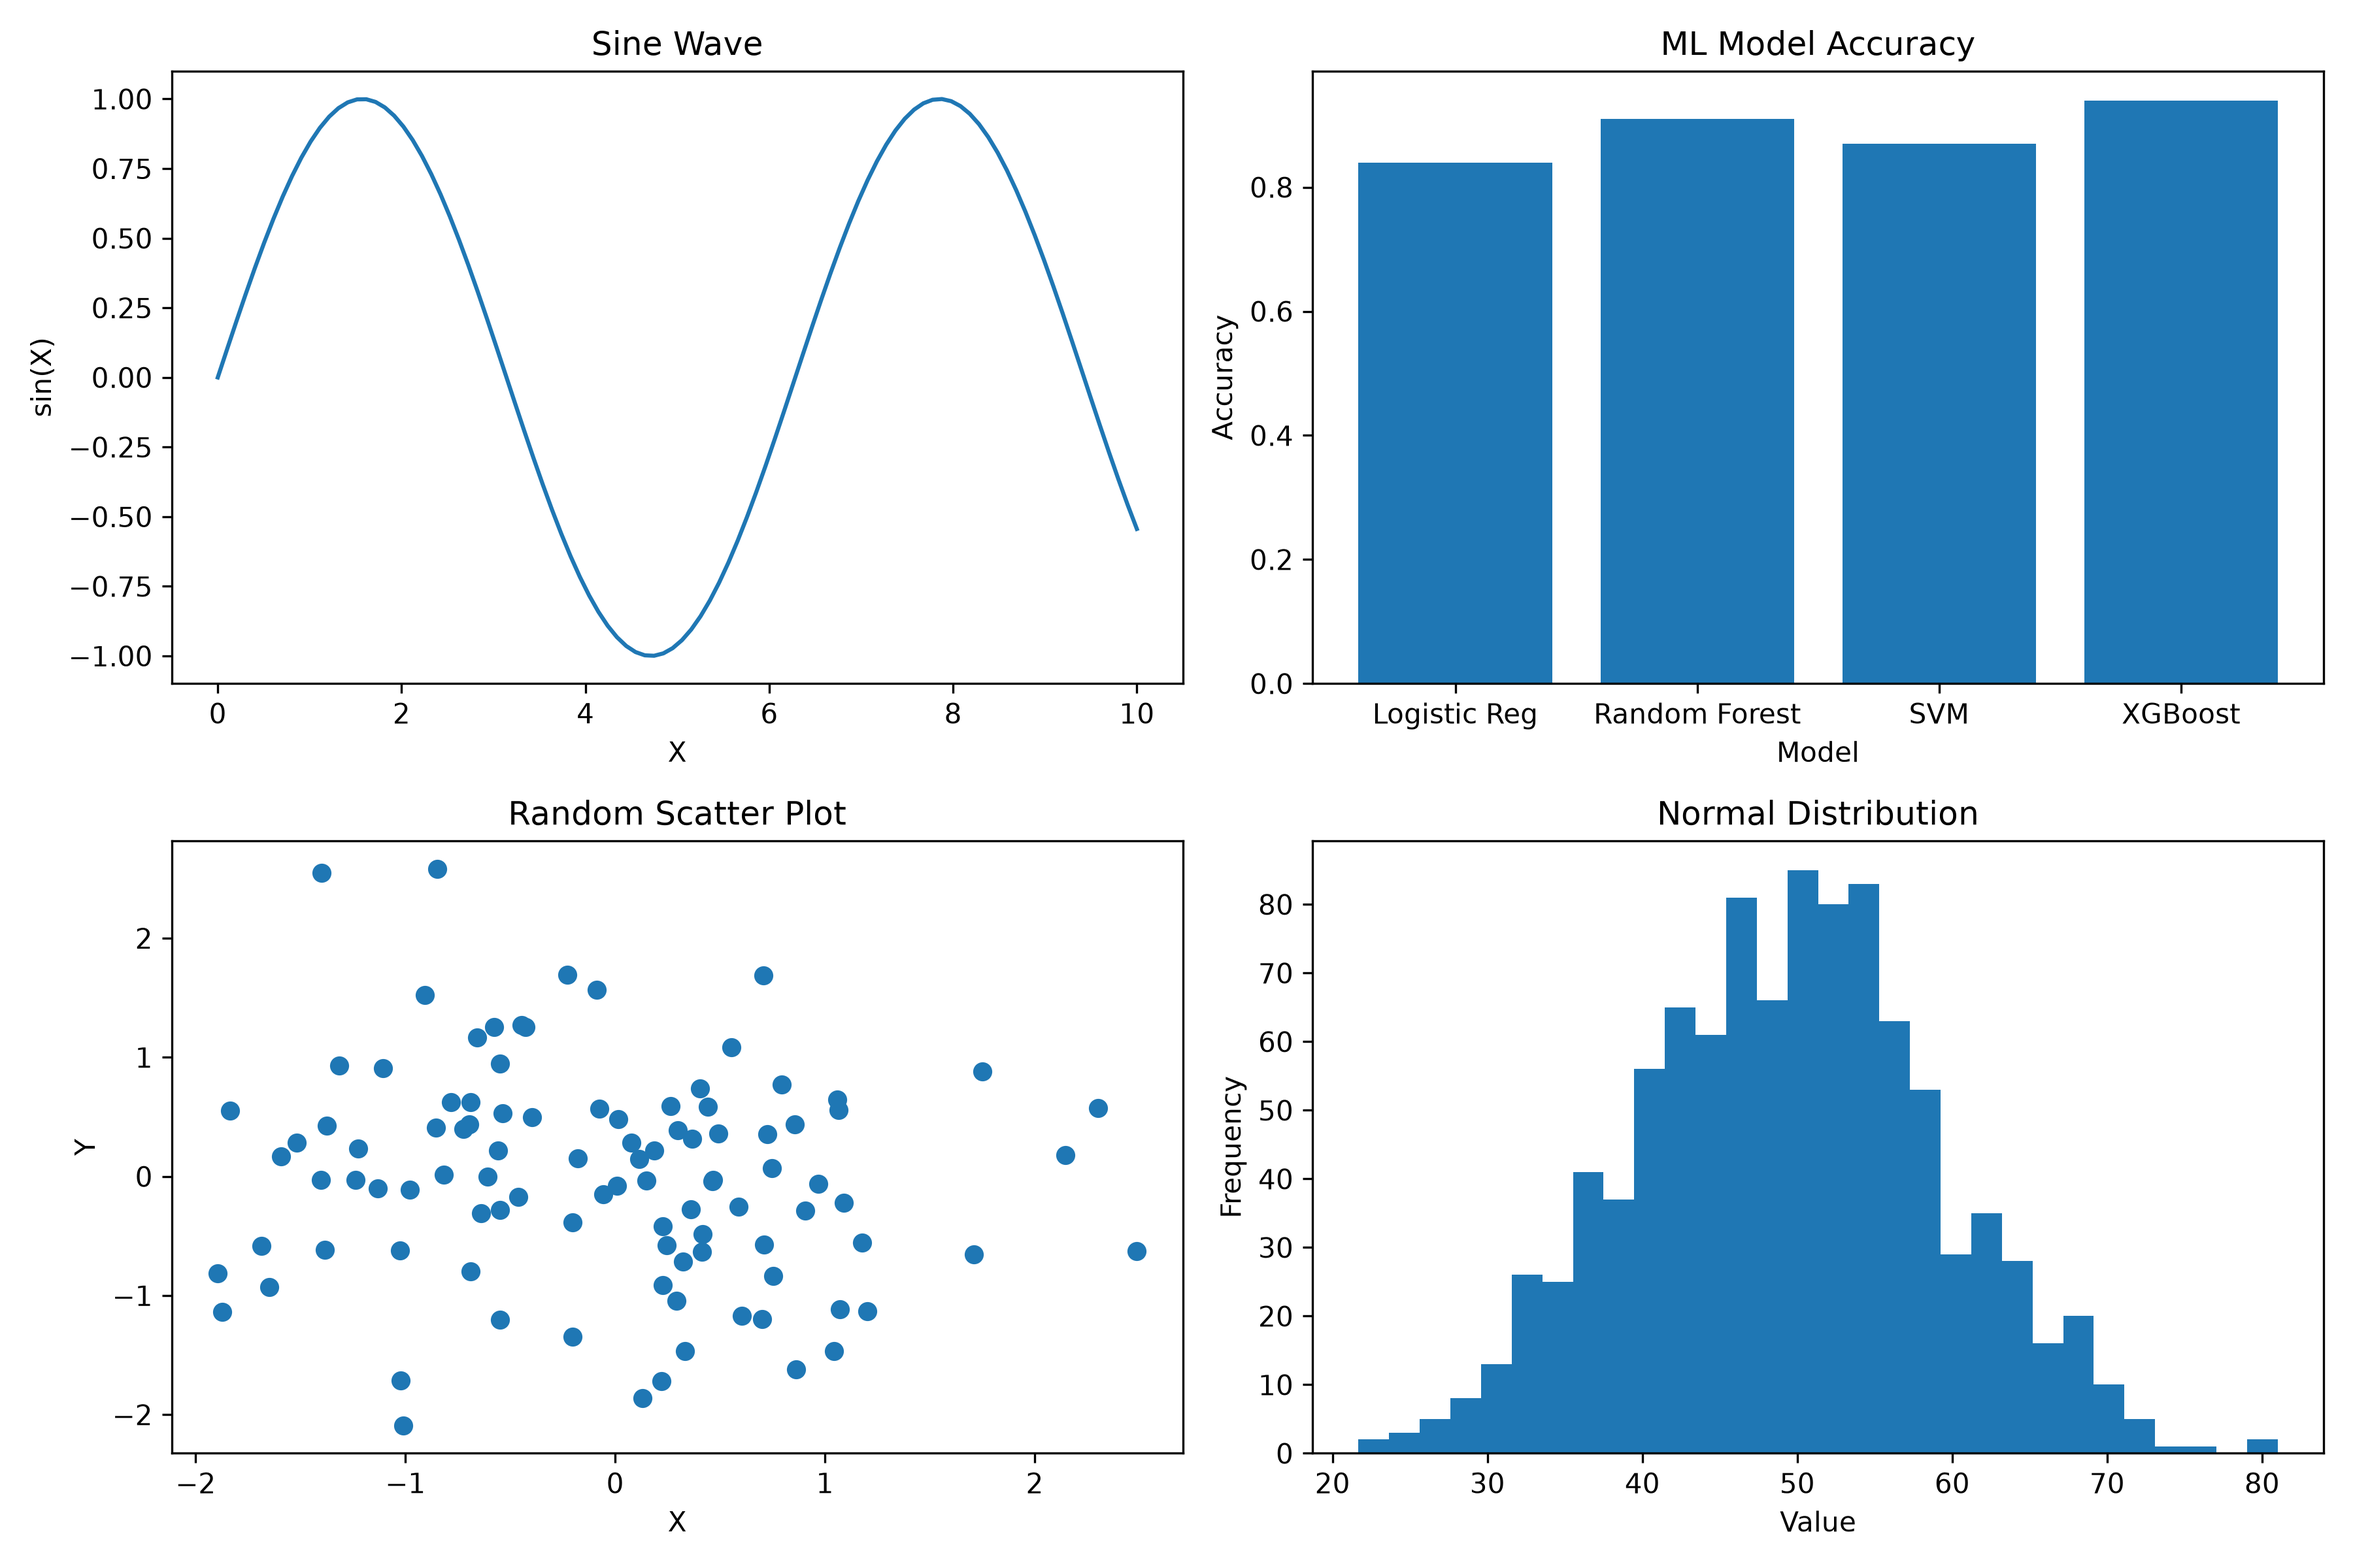
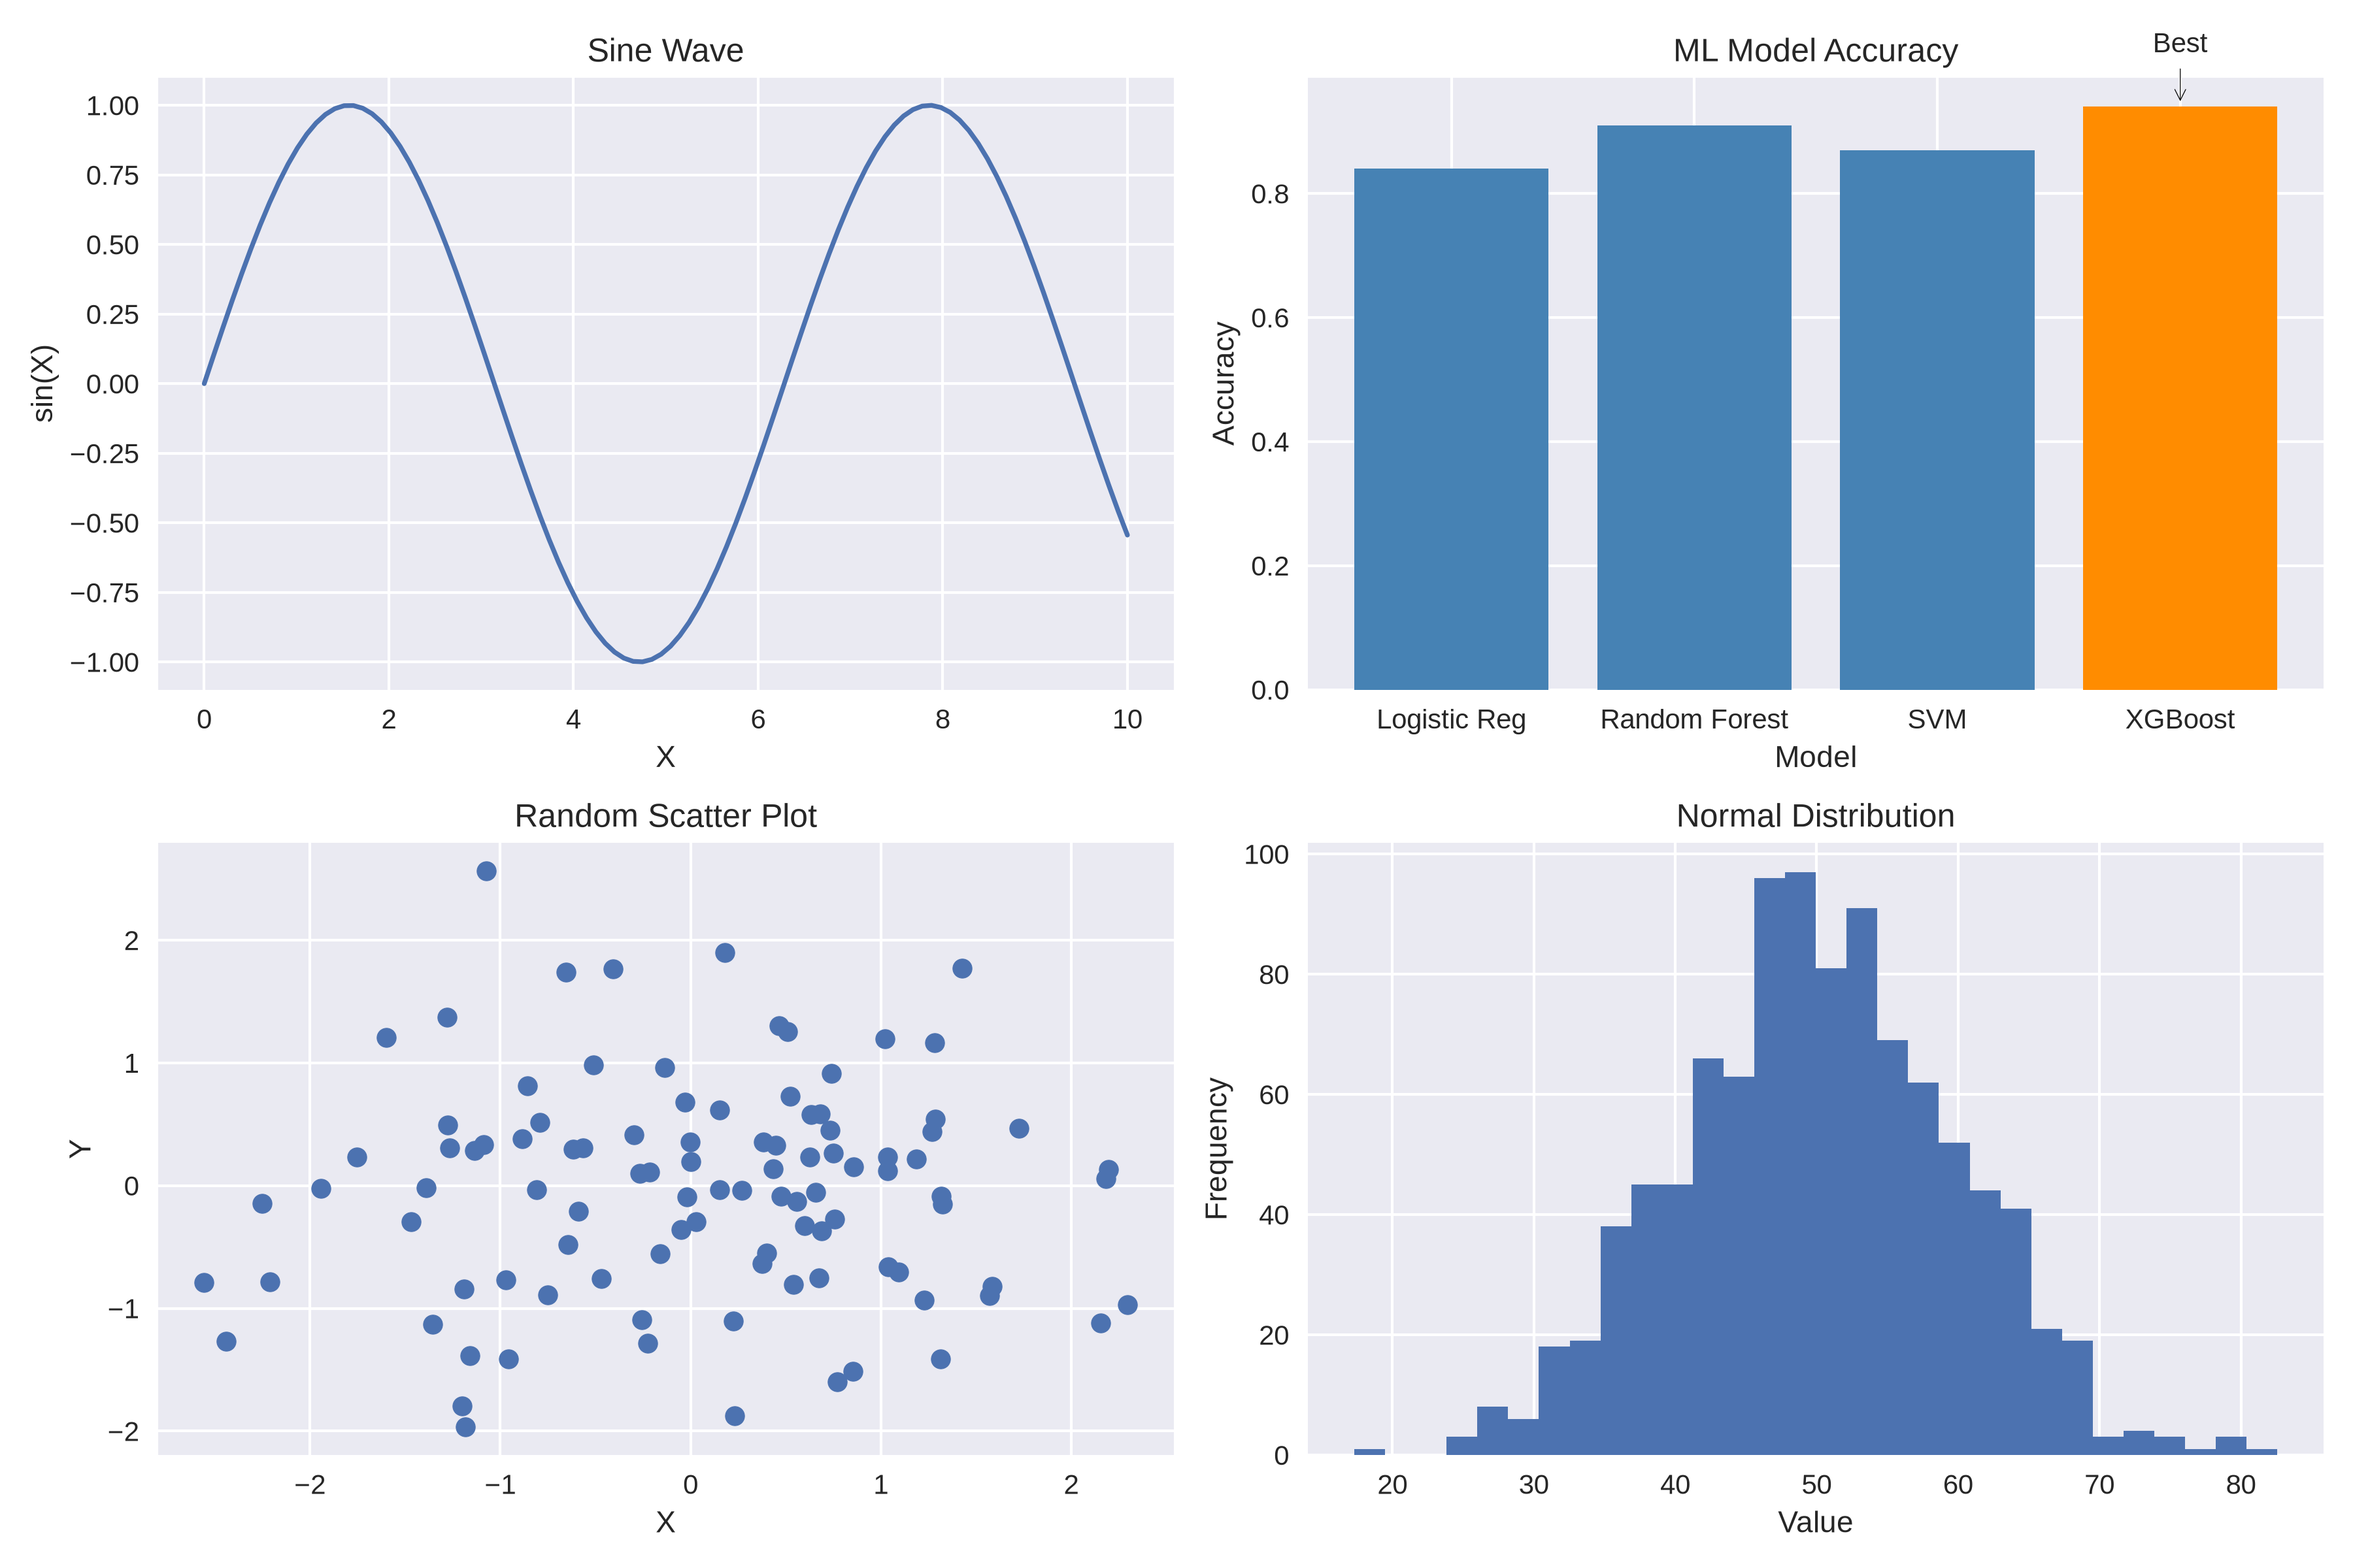
feat(visualization): enhance plots with professional styling, annotations, and improved spacing

diff --git a/phase-5-visualization-math/week1_matplotlib/01_matplotlib_basics.py b/phase-5-visualization-math/week1_matplotlib/01_matplotlib_basics.py
@@ -2,6 +2,10 @@ import numpy as np
 import matplotlib.pyplot as plt
 
 
+# Apply professional built-in Matplotlib style
+plt.style.use("seaborn-v0_8")
+
+
 def create_subplots_overview():
     """Create and save a 2x2 grid of different plot types."""
 
@@ -25,10 +29,37 @@ def create_subplots_overview():
     models = ["Logistic Reg", "Random Forest", "SVM", "XGBoost"]
     accuracy = [0.84, 0.91, 0.87, 0.94]
 
-    ax[0, 1].bar(models, accuracy)
+    # Highlight XGBoost
+    colors = [
+        "steelblue",
+        "steelblue",
+        "steelblue",
+        "darkorange"
+    ]
+
+    ax[0, 1].bar(
+        models,
+        accuracy,
+        color=colors
+    )
+
     ax[0, 1].set_title("ML Model Accuracy")
     ax[0, 1].set_xlabel("Model")
     ax[0, 1].set_ylabel("Accuracy")
+
+    # Annotate the best model
+    best_index = np.argmax(accuracy)
+    best_model = models[best_index]
+    best_accuracy = accuracy[best_index]
+
+    ax[0, 1].annotate(
+        "Best",
+        xy=(best_model, best_accuracy),
+        xytext=(0, 20),
+        textcoords="offset points",
+        ha="center",
+        arrowprops=dict(arrowstyle="->")
+    )
 
     # ---------------------------------------------------------
     # [1, 0] Scatter Plot — Random Relationship
@@ -55,7 +86,7 @@ def create_subplots_overview():
     ax[1, 1].set_xlabel("Value")
     ax[1, 1].set_ylabel("Frequency")
 
-    # Prevent overlapping labels/titles
+    # Improve subplot spacing
     plt.tight_layout()
 
     # Save the complete figure
@@ -76,22 +107,43 @@ def plot_training_curve(train_loss, val_loss):
     # Create single axes
     fig, ax = plt.subplots(figsize=(8, 5))
 
-    # Plot both loss curves
-    ax.plot(epochs, train_loss, label="Training Loss")
-    ax.plot(epochs, val_loss, label="Validation Loss")
+    # Training loss — solid line
+    ax.plot(
+        epochs,
+        train_loss,
+        label="Training Loss",
+        linestyle="-"
+    )
+
+    # Validation loss — dashed line
+    ax.plot(
+        epochs,
+        val_loss,
+        label="Validation Loss",
+        linestyle="--"
+    )
 
     ax.set_title("Training vs Validation Loss")
     ax.set_xlabel("Epoch")
     ax.set_ylabel("Loss")
+
+    # Annotate where overfitting starts
+    ax.annotate(
+        "Overfitting starts",
+        xy=(9, val_loss[8]),
+        xytext=(6.5, 0.65),
+        arrowprops=dict(arrowstyle="->"),
+    )
 
     # Show legend
     ax.legend()
 
     plt.tight_layout()
 
-    # Save plot
+    # Save training curve
     plt.savefig("training_curve.png", dpi=300)
 
+    # Close figure
     plt.close(fig)
 
 
@@ -101,12 +153,13 @@ def main():
     # Create 2x2 subplot figure
     create_subplots_overview()
 
-    # Fake decreasing loss values for 10 epochs
+    # Fake decreasing training loss for 10 epochs
     train_loss = [
         0.95, 0.80, 0.68, 0.57, 0.48,
         0.41, 0.35, 0.30, 0.26, 0.23
     ]
 
+    # Validation loss starts increasing around epoch 9
     val_loss = [
         1.00, 0.87, 0.75, 0.66, 0.59,
         0.54, 0.51, 0.49, 0.48, 0.50

diff --git a/phase-5-visualization-math/README.md b/phase-5-visualization-math/README.md
@@ -28,4 +28,7 @@ phase-5-visualization-math/
 production standard over pyplot shorthand. 2x2 subplot grid covering line,
 bar, scatter, and histogram plots, plus a dedicated training-vs-validation
 loss curve function — an ML-specific visualization added beyond the base
-roadmap for portfolio relevance.
+roadmap for portfolio relevance. Polished with `plt.style.use()`,
+dynamic best-model highlighting via `np.argmax()`, and `ax.annotate()`
+call-outs (best model, overfitting onset) to make charts communicate
+insight, not just display data.
